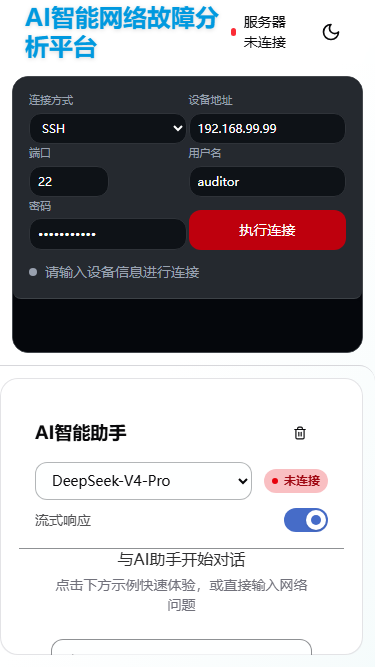
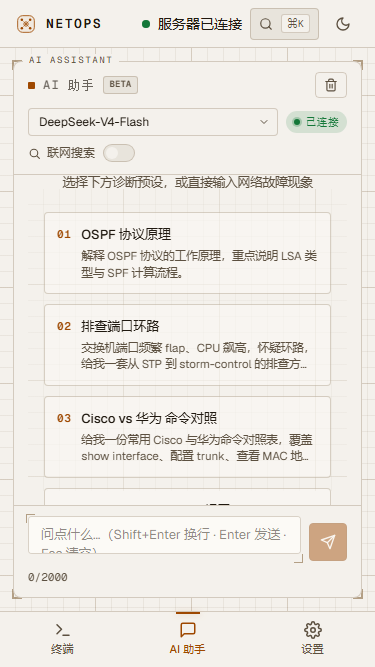
docs(hud): 归档 HUD 改造验证报告与双模式截图

diff --git a/discuss/hud-verification-report.md b/discuss/hud-verification-report.md
@@ -1,0 +1,223 @@
+# Industrial HUD 大改造 — 前端验证报告
+
+> 验证日期：2026-05-31
+> 验证范围：H0–H7 工作区改造（未提交）的动态层验证（编译 / 渲染 / a11y / 双模式目测）
+> 验证方式：纯验证 + 浏览器双模式目测，未修改任何源码 / git
+> 环境：Windows，前端 5180 / 后端 8000，dev 经 `scripts/dev.ps1` 启动，后端健康检查通过
+> 截图目录：`discuss/hud-shots/`；axe 报告：`discuss/redesign-p6/p6-axe-report.json`
+
+---
+
+## 一、代码层（lint / typecheck / build）
+
+### 1. TypeScript 类型检查（vue-tsc --noEmit）—— ❌ 1 个 ERROR（阻塞）
+
+```
+src/components/ai-assistant/components/MessageBubble.vue(15,6): error TS2379:
+Argument of type '{ thinking: ThinkingContent; isStreaming: boolean; defaultExpanded: boolean | undefined; }'
+is not assignable to parameter ... with 'exactOptionalPropertyTypes: true'.
+  Types of property 'defaultExpanded' are incompatible.
+    Type 'boolean | undefined' is not assignable to type 'boolean'.
+```
+
+- **严重度：阻塞（blocking）**
+- **位置**：`frontend/src/components/ai-assistant/components/MessageBubble.vue:19`
+  绑定 `:default-expanded="isLastAssistant"`。
+- **根因**：`MessageBubble` 的 `isLastAssistant` 是可选 prop（`isLastAssistant?: boolean`，`MessageBubble.vue:84`），其类型为 `boolean | undefined`。`tsconfig.json:20` 开启了 `exactOptionalPropertyTypes: true`，因此把 `boolean | undefined` 显式传给 `ThinkingBlock` 的 `defaultExpanded?: boolean`（`ThinkingBlock.vue:80`）被拒绝——显式绑定要求值精确为 `boolean`。
+- **触发阶段**：H5（MessageBubble 引入 ThinkingBlock 的 `default-expanded` 绑定）。
+- **建议修复方向**（任选其一，均为 1 行）：
+  1. `MessageBubble.vue:19` 改为 `:default-expanded="isLastAssistant ?? false"`；或
+  2. 把 `withDefaults` 已给了默认值 `isLastAssistant: false`（`MessageBubble.vue:90`），改用 `:default-expanded="props.isLastAssistant"` 仍是 `boolean | undefined`——根因在 prop 可选性，仍需 `?? false`；或
+  3. 将 `isLastAssistant` 改为必选 prop（去掉 `?`），父组件已传值时最干净。
+
+### 2. ESLint —— ✅ 全绿
+
+`npm run lint`（eslint . --ext .vue,.js,.cjs,.mjs,.ts,.tsx,.cts,.mts）独立运行，**0 error / 0 warning**，退出码 0。
+（注：`lint.ps1` 先跑 typecheck，因 typecheck 失败而中止，ESLint 不会被脚本执行到；本报告单独跑了 ESLint 确认其全绿。）
+
+### 3. 生产构建（vue-tsc && vite build）—— ❌ 失败（被 typecheck 阻塞）
+
+- `package.json:8` 的 build 脚本是 `"vue-tsc && vite build"`，`&&` 短路：vue-tsc 失败后 **vite build 根本不会执行**，**dist 未产出**，无法统计体积。
+- 失败信息与上面 typecheck 完全一致（同一处 TS2379）。
+- **结论**：修复第 1 条 typecheck 错误后，build 才能跑通。这是唯一的构建阻塞点。
+
+> 备注：dev server（Vite/esbuild）不做类型检查，因此尽管 typecheck/build 失败，开发环境仍能正常渲染——下面的浏览器目测均在 dev server 上完成且界面正常。
+
+---
+
+## 二、视觉问题（按 H 阶段 + Dark/Light 分类）
+
+> 总体观感：HUD 改造完成度高，双模式翻转干净，工业 HUD 语言（深空琥珀辉光 / 暖纸暗琥珀印刷 + 1px 双层网格 + 四角 L 角标 + scanline + 等宽坐标数据）落地到位。以下按阶段列出确认项与少量问题。
+
+### H0 品牌名 + meta —— ✅ 通过
+- 顶栏品牌「NETOPS」+ 副标题「AI 网络故障智能分析平台」（`light-topbar.png` / `dark-topbar.png`）。
+- 命令面板「关于本平台」副标题「NetOps · AI 网络故障智能分析平台」（`dark-command-palette.png`）。
+- 全仓 grep `驾驶舱` / `PacketSignal` **零结果**，确认旧名与旧组件引用已清除。
+
+### H1 tokens.css 双模式 —— ✅ 通过
+- 实测 `getComputedStyle`：Dark `--background = oklch(0.09 0.012 230)`（深空黑）、`--primary = oklch(0.82 0.16 80)`（琥珀主灯）；Light `--background = oklch(0.96…)`（暖纸）。token 翻转正确。
+- 圆角 `--radius: 0.25rem`（HUD 锐利感）已生效。
+
+### H2 主网格背景（NetworkTopologyBackground）—— ✅ 通过
+- DOM 实测：全局唯一一个 `.hud-bg`（挂在 `netops-shell`）。双层网格 96px 粗 + 16px 细可见且克制（`dark-ai-empty.png` 网格清晰但不喧宾）。
+- **四角 L 角标全部存在**：实测 4 个 corner，琥珀色 `oklch(0.6 0.1 80 / 0.45)`，20×20px，分别位于视口四角（10px 内缩）。
+- scanline 实测在动（`hud-scan` 动画，4s，opacity 1，高度 = 视口 42%）。
+
+### H3 HUD 装饰组件（HudFrame / ScanlineSweep）—— ✅ 通过
+- `HudFrame.vue`：四角 L 角标 + 可选 label + `active/bordered/corners` props 完整；`:focus-within` 点亮（焦点框有职责，非纯装饰）。AI 面板 label「AI ASSISTANT」、终端面板 label「TERMINAL」均正确渲染。
+- `ScanlineSweep.vue`：三态（idle/scanning/done）+ 琥珀光束辉光 + reduced-motion 处理齐全。
+
+### H4 顶栏 + 主区 —— ✅ 通过（除下方 a11y drag-handle 项）
+- mission-clock 实时跳动：跨多张截图观察到 01:10:51 → 01:11:23 → 01:22:23 连续走时，**真实时间**，mono 字体 + bracket 框。
+- ⌘K 按钮、brand L 角标 logo、主题切换（月/日图标）均正常。
+
+### H5 AI 助手面板 —— ✅ 通过
+- EmptyState（`dark-ai-empty.png` / `light-ai-panel.png`）：`[ AI ]` mono 琥珀 bracket 标签 + 「AI 助手就绪」+ 4 张诊断预设卡（mono 序号 01–04 琥珀），**无 emoji**，网格底可见。完成度很高。
+- ThinkingBlock 已用 ScanlineSweep 替换（代码确认，`ThinkingBlock.vue:19,24`）。
+- 模型选择器、联网搜索开关、清空对话按钮齐全。
+
+### H6 终端面板 —— ✅ 通过
+- 终端永远暗底（`light-viewport.png` 中浅色模式下终端仍为深色块，符合设计），琥珀 hairline，「连接」/「发送」按钮琥珀，`$` 暖白 prompt，状态文案正常。
+
+### H7 命令面板 + BottomTabBar + ServerStatus —— ✅ 通过
+- 命令面板（`dark-command-palette.png`）：深空底 + **active item 琥珀左 bracket 高亮** + 分组（对话/主题/导航/设置）+ 快捷键徽标 + 底部 ↑↓/↵/Esc 提示。
+- BottomTabBar（移动端）：active tab 琥珀 + 顶部 1px 琥珀指示线（`mobile-375-*.png`）。
+- ServerStatusIndicator：绿色脉冲状态灯 +「服务器已连接」。
+
+### 视觉问题清单
+| # | 严重度 | 位置 | 现象 | 截图 | 建议 |
+|---|--------|------|------|------|------|
+| V1 | 次要 | AI 面板 header（768 断点） | 768px 进入双面板模式后 AI 面板偏窄，header 工具条拥挤：「联网搜索」label 竖排折行（联/网/搜/索），模型名截断为「De…」 | `mobile-768.png` | 768 断点可考虑保持单面板（移动布局），或 AI header 在窄宽下隐藏「联网搜索」文字仅留图标/开关 |
+| V2 | 次要 | AI pane / prompt-card（768 断点） | 实测 `netops-pane--ai` 与部分 `prompt-card` 的 right 边缘超出视口 3–6px（772–775 vs 769），被裁剪、无页面级横向滚动条 | `mobile-768.png` | 收紧 768 断点下 AI pane 的右内边距 / card 宽度计算 |
+
+> Light 暖纸底偏接近 off-white（非强烈纸张感），属设计取向判断，未列为缺陷。
+
+---
+
+## 三、a11y / 对比度
+
+### axe-core 多视口审计（`scripts/p6_axe_audit.py`，4 视口）
+
+| 视口 | violations | 说明 |
+|------|-----------|------|
+| mobile-375-light | 1 | color-contrast |
+| mobile-375-dark | 0 | — |
+| tablet-768-light | 0 | — |
+| desktop-1280-dark | 1 | button-name |
+
+合计 **2 个 violation**，脚本退出码 1（未满足 0 violation + 全图标 aria-hidden 的严格门槛）。
+
+#### A1 — `button-name`（critical），desktop dark
+- **位置**：`frontend/src/components/layout/DragHandle.vue`（`.drag-handle`）。
+- **现象**：`<button role="separator">` 仅含一个空 `<span class="drag-handle__bar"/>`，**无可辨识名称**（无 aria-label / 无文本）。axe 判定 critical「Buttons must have discernible text」。仅在桌面宽度（出现拖拽分割条时）触发。
+- **建议**：给该 button 补 `aria-label="调整面板宽度"`（1 行）。
+
+#### A2 — `color-contrast`（serious），light only
+- **位置**：`.model-selector__status-text`（「已连接」徽标文字，`ModelSelector.vue`）。
+- **现象**：Light 模式下 `--success` 文字落在 `color-mix(success 14%, …)` 浅底芯片上，实测对比度 **4.42:1**（< AA 4.5）。Dark 模式实测 7.51:1 通过。
+- **建议**：Light 模式将徽标文字色压暗（如 `color-mix(in oklch, var(--success), black 18%)`）或加深芯片底色。
+
+#### A3 — 图标 aria-hidden 回归（项目自有门槛，非 axe violation）
+- **现象**：`iconHiddenCount = 6/10`——10 个 SVG 中仅 6 个带 `aria-hidden="true"`，**4 个缺失**。这破坏了上一轮 P6「全图标 aria-hidden」的不变量（`icon_a11y_maintained = false`）。
+- **具体未隐藏的 SVG**（均位于带 aria-label 的按钮内，故 axe 未报 violation，仅项目门槛失败）：
+  - 顶栏 ⌘K 按钮内图标 `.netops-header__cmdk-icon`（按钮 aria-label「打开命令面板」）。
+  - BottomTabBar 三个 tab 图标 `.bottom-tab-bar__icon`（终端 / AI 助手 / 设置）。
+- **严重度：次要**（按钮本身有可访问名，不构成功能性障碍，但违反项目既定标准）。
+- **建议**：给上述装饰性 SVG 补 `aria-hidden="true"`（H4 MainLayout header cmdk 图标 + H7 BottomTabBar tab 图标）。
+
+### 手动对比度核对（canvas 像素栅格化计算，含半透明合成）
+
+**Dark 模式**（阈值 AA 4.5:1 正文 / 3:1 大字与 UI）：
+
+| 配对 | 比值 | 结论 |
+|------|------|------|
+| foreground / bg | 17.30 | ✅ |
+| muted-foreground / bg | 7.19 | ✅ |
+| primary(琥珀) / bg | 11.68 | ✅ |
+| primary-foreground / primary（按钮白底字）| 11.33 | ✅ |
+| success / bg（success 作文字）| 8.90 | ✅ |
+| success / 徽标芯片（已连接）| 7.51 | ✅ |
+| warning / bg | 10.82 | ✅ |
+| **warning-foreground / warning（终端取消按钮）** | **10.31** | ✅ 见下 |
+| **success-foreground / success** | **2.25** | ⚠ 失败，但**无任何消费者**，见下 |
+| destructive / bg | 5.77 | ✅ |
+
+**控制器预警的 `.dark` 未重定义 `--warning-foreground` / `--success-foreground` 核对结论：**
+- `.dark` 块确实未重定义这两个 foreground token（`tokens.css:148–213`），它们继承 `:root` 的 light 值（warning-fg = `oklch(0.15…)` 近黑、success-fg = `oklch(0.99…)` 近白）。**确认属实。**
+- **但实际影响基本为 0**：
+  - `--warning-foreground` 全仓**唯一消费者**是 `TerminalConnectionForm.vue:158-159` 的 `.terminal-config-button--cancel`（连接中取消按钮）：Dark 下是「近黑字 + 亮琥珀底」= 暗字配亮底，对比度 **10.31:1，远超 AA**。不是问题。
+  - `--success-foreground` 全仓**零消费者**（grep 确认无任何组件用作 success 填充上的文字）。其 2.25:1 是**休眠/潜在 bug**，当前界面不可见、无障碍工具也扫不到。
+- **建议（防御性，非阻塞）**：仍建议在 `.dark` 补 `--warning-foreground` / `--success-foreground` 两行（与 light 一致或按 dark 反相），消除未来若新增「success/warning 实心填充 + 前景文字」组件时的隐患。
+
+**Light 模式**（真正的边界对比度都集中在这里，与控制器预期相反）：
+
+| 配对 | 比值 | 结论 |
+|------|------|------|
+| foreground / bg | 15.43 | ✅ |
+| primary(暗琥珀) / bg | 5.51 | ✅ |
+| primary-foreground / primary（按钮）| 6.02 | ✅ |
+| success / bg | 5.01 | ✅ |
+| success-foreground / success | 5.46 | ✅（light 有正确值）|
+| **warning / bg** | **4.25** | ⚠ 略低于 4.5（正文）|
+| warning / card | 4.59 | ✅（刚过）|
+| **warning-foreground / warning（终端取消按钮）** | **4.12** | ⚠ 低于 4.5 |
+| **success / 徽标芯片（已连接）** | **4.42** | ⚠ = axe A2，略低于 4.5 |
+| destructive / bg | 5.41 | ✅ |
+
+- Light 模式 amber/green-on-paper 有三处 4.1–4.5 的**轻微 AA 不达标**（warning 作文字、终端取消按钮文字、已连接徽标）。均属次要，建议在 light 下把 `--warning` / `--success` 用作小字时压暗一档。
+
+---
+
+## 四、移动端（375 / 768）
+
+### 375×812 —— ✅ 通过（布局优秀）
+- 顶栏**正确隐藏** 副标题 + divider + clock（≤640px），仅留 NETOPS logo / 服务器状态 / ⌘K / 主题切换（`mobile-375-light.png`）。
+- 单面板 + BottomTabBar（终端 / AI 助手 / 设置）三 tab 切换正常，active tab 琥珀 + 顶 1px 琥珀线。
+- AI tab：`[ AI ]` 空状态 + 4 张全宽预设卡，无溢出（`mobile-375-light.png`）。
+- 终端 tab：连接表单 2 列响应式网格，无溢出，琥珀「连接」按钮（`mobile-375-terminal.png`）。
+- 设置 tab：深色模式/命令面板/重连后端三行 + 桌面端快捷键提示（`mobile-375-settings.png`）。
+- 设置抽屉可用。气泡/卡片无溢出。
+
+### 768×1024 —— ⚠ 次要密度问题
+- 768 > 640，顶栏恢复完整（含 clock，正确）。
+- 768 进入**双面板桌面模式**，两侧偏窄：见上 V1（AI header「联网搜索」竖排折行、模型名截断）、V2（AI pane / card 右缘超出 3–6px 被裁剪）。
+- **无文档级横向滚动条**（实测 scrollWidth = clientWidth = 769）。
+- 截图：`mobile-768.png`。
+
+---
+
+## 五、reduced-motion
+
+> 受限说明：chrome-devtools MCP 的 `emulate` 不暴露 `prefers-reduced-motion` 媒体模拟（且会话中 `emulate`/`press_key` 间歇被平台分类器拦截）。故以**权威静态核验**替代单点目测——结论更强（全局 `*` 覆盖 + 逐组件块双保险）。
+
+- **全局兜底**（`base.css:42-50`，位于 `@layer base`）：`@media (prefers-reduced-motion: reduce)` 对 `*, *::before, *::after` 强制 `animation-duration: 0.001ms !important; animation-iteration-count: 1 !important; transition-duration: 0.001ms !important`。**这一条即可中和全站所有动画**（scanline / amber-pulse / digit-flicker / beam / dot pulse / cursor blink）。
+- **逐组件加强块**（共 11 处）：
+  - `NetworkTopologyBackground.vue:90` scanline → `animation:none; opacity:0`
+  - `ScanlineSweep.vue:85` beam → `animation:none`
+  - `ServerStatusIndicator.vue:51` dot → `animation:none`
+  - `TerminalOutput.vue:63` cursor → `animation:none`
+  - `TerminalStatusBar.vue:72` dot → `animation:none !important`
+  - 另有 ChatInput / ChatMessages / ConfirmDialog / EmptyState / ScrollToBottomButton / ThinkingBlock 的过渡禁用块。
+- **结论**：✅ prefers-reduced-motion 正确且全面处理；scanline / pulse / digit-flicker 在 reduce 下全停。
+
+---
+
+## 六、结论
+
+**HUD 改造可以「按 H 阶段提交」，但有一个代码层硬阻塞必须先修。**
+
+### 必须先修（阻塞提交/构建）
+- **B1（阻塞）**：`MessageBubble.vue:19` 的 TS2379 typecheck 错误 → 导致 `vue-tsc` 与 `vite build` 全部失败、dist 不产出。修复（`?? false` 一行）后 build 才能通过。该问题归属 H5，提交 H5 前必须修。
+
+### 建议随阶段修复（不阻塞，但 axe 标红 / 破坏既有标准）
+- **A1（critical，建议修）**：`DragHandle.vue` 拖拽分割条缺 `aria-label` → axe button-name critical。归属 H4。
+- **A3（次要）**：4 个装饰 SVG（⌘K 图标 + 3 个 BottomTabBar tab 图标）缺 `aria-hidden="true"`，破坏 P6「全图标 aria-hidden」不变量。归属 H4/H7。
+- **A2 / Light 对比度（次要）**：Light 模式 `--success`/`--warning` 作小字的三处 4.1–4.5 轻微 AA 不达标（含「已连接」徽标）。归属 H8 收尾。
+
+### 可选防御性
+- `.dark` 补 `--warning-foreground` / `--success-foreground`（当前一个对比度 OK、一个无消费者，仅为未来防隐患）。归属 H1/H8。
+
+### 视觉细节（次要，可后续打磨）
+- 768 断点双面板密度（V1/V2）。
+
+**一句话**：双模式 HUD 视觉与运动/降级层面完成度很高、无阻塞级视觉问题；唯一阻塞是 1 个 typecheck 错误（连带 build 失败），修掉后即可按 H 阶段分批提交，其余为次要 a11y/对比度打磨项。
